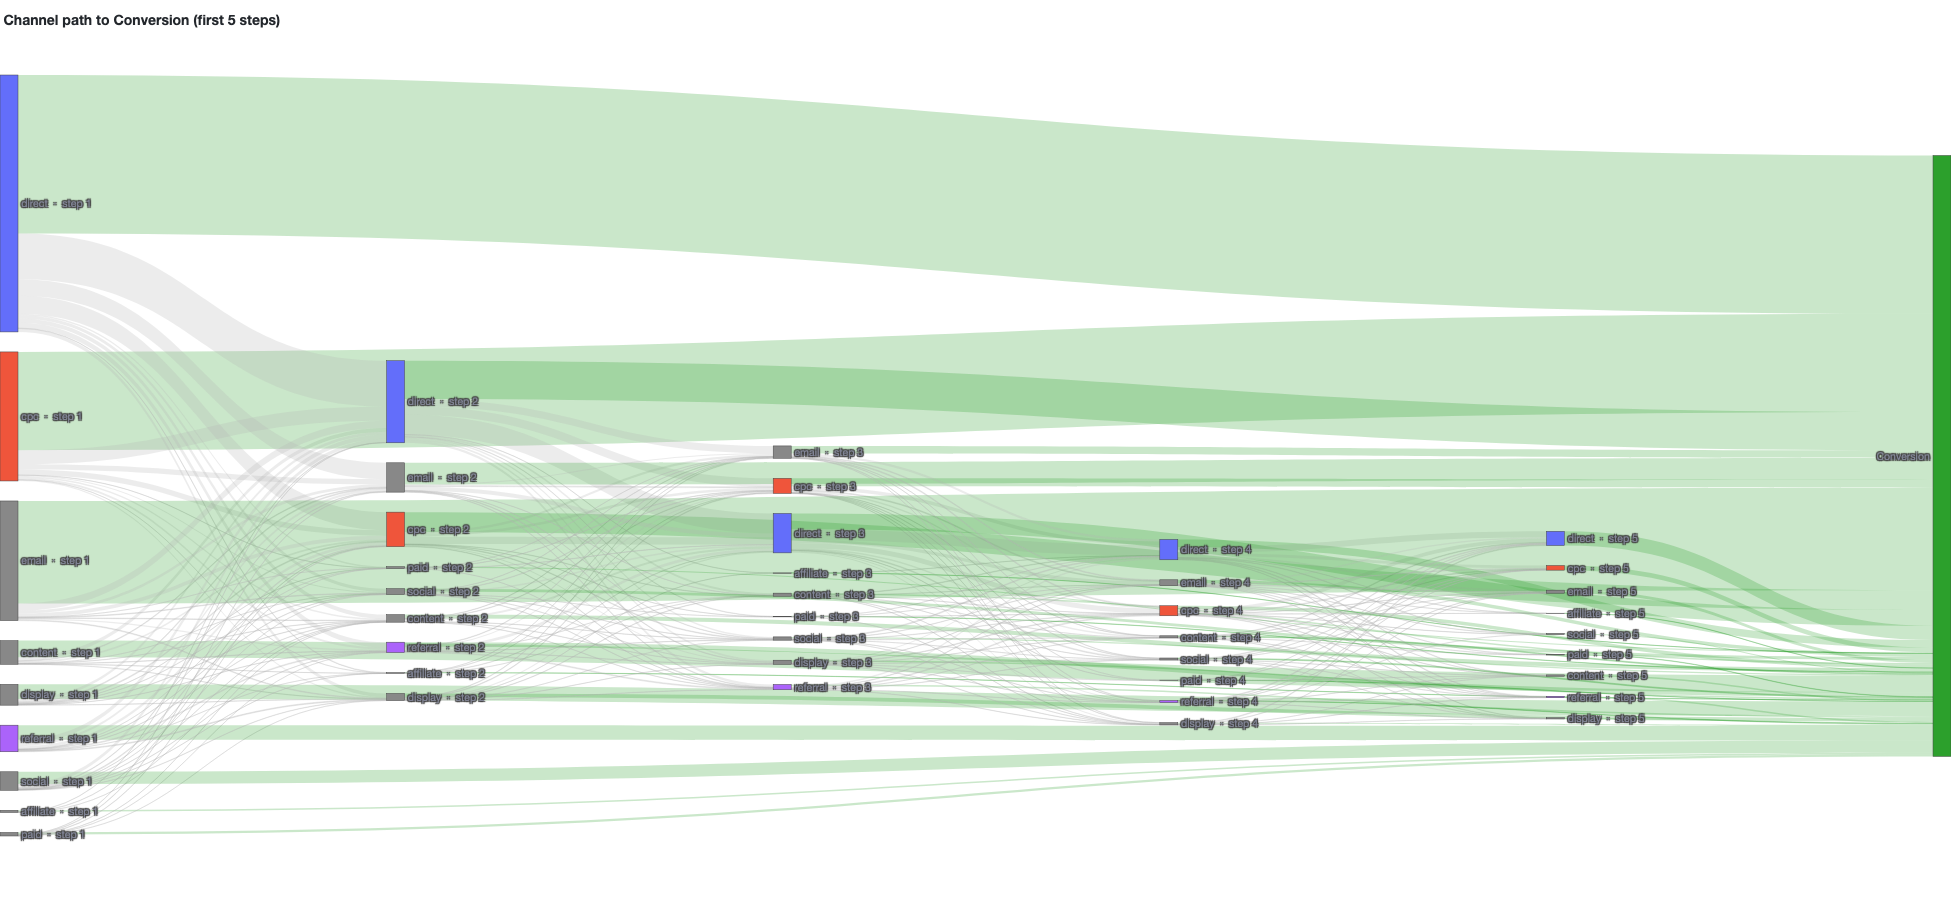
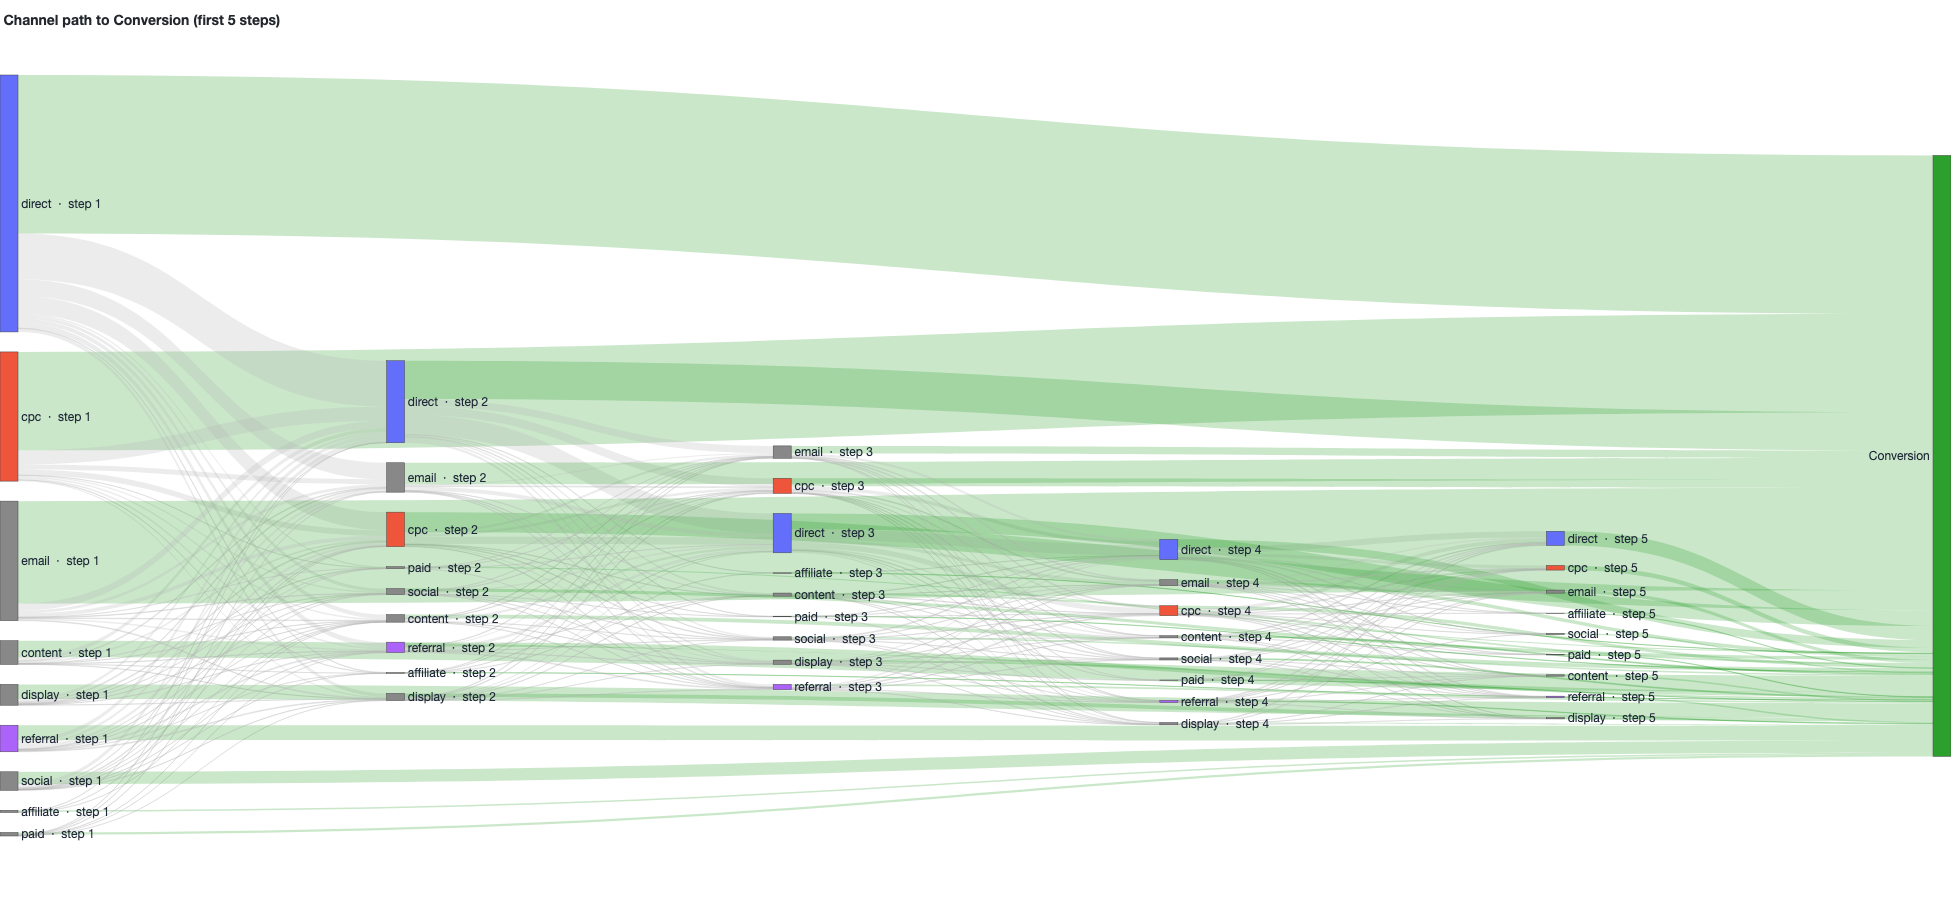
fix: readable Sankey labels in light mode, refresh channel flow screenshot

diff --git a/snowflake/multi_touch_attribution/streamlit/streamlit_app.py b/snowflake/multi_touch_attribution/streamlit/streamlit_app.py
@@ -441,6 +441,9 @@ with tab_paths:
             fig_sankey = go.Figure(
                 go.Sankey(
                     arrangement="snap",
+                    # Plotly's default label halo is built for dark themes and
+                    # blurs the text on a white background.
+                    textfont={"color": "#1f2937", "size": 12, "shadow": "none"},
                     node={
                         "label": all_nodes,
                         "color": [node_color(n) for n in all_nodes],
